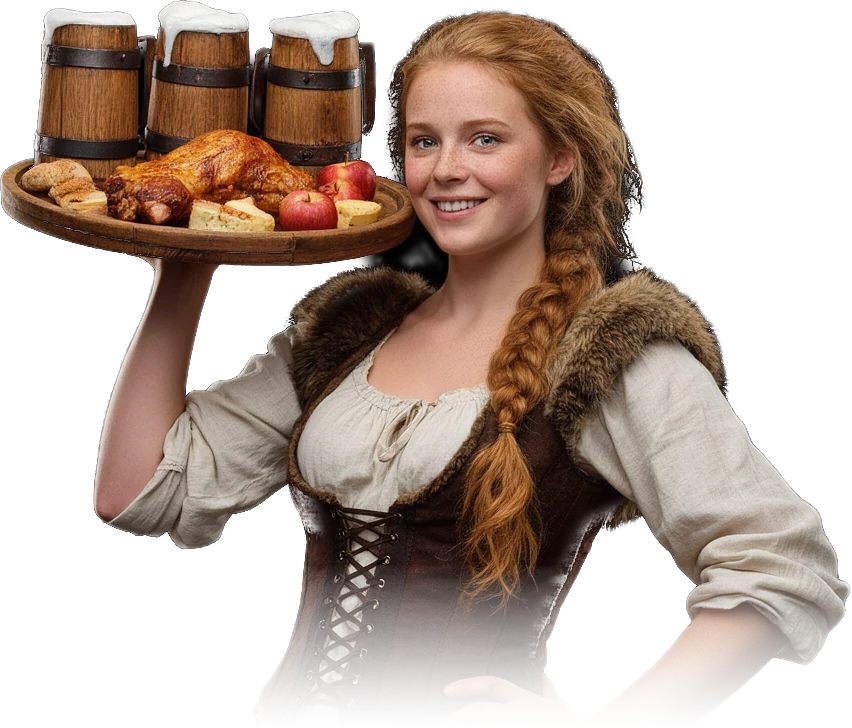
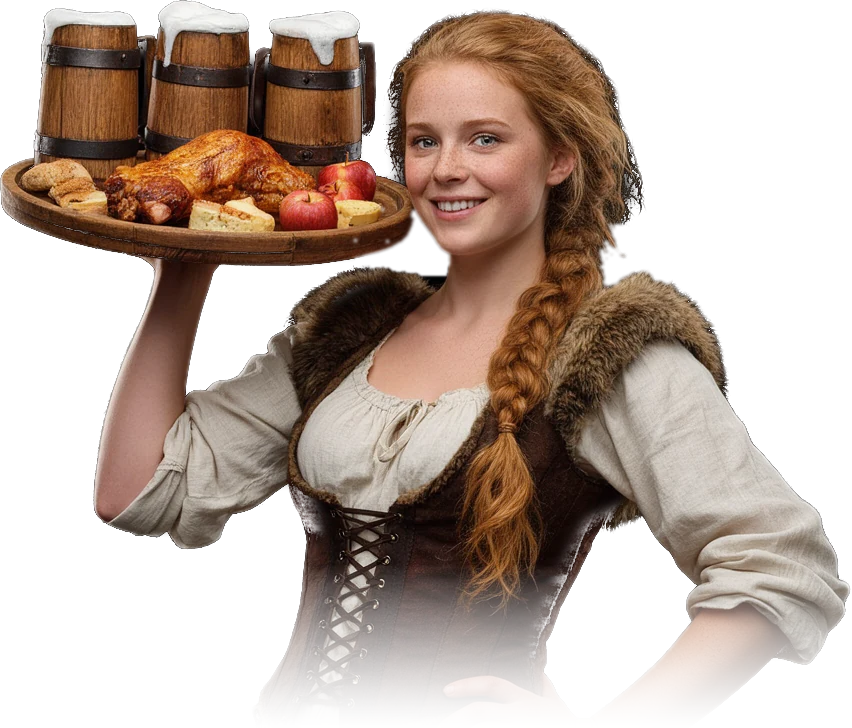
Serveuse réduite ; tache grise retirée derrière le cou

Changed region(s): [[0.3967, 0.272, 0.5493, 0.3929], [0.7019, 0.3022, 0.7934, 0.3929]]

diff --git a/assets/css/site.css b/assets/css/site.css
@@ -108,7 +108,7 @@ nav{white-space:nowrap}nav a.l{white-space:nowrap}
 .press .dragon{position:absolute;right:0;top:-80px;width:min(44vw,580px);aspect-ratio:1152/896;background:url(../img/dragon.webp) center/contain no-repeat;pointer-events:none;z-index:0}
 .press .dragon{z-index:2}
 .wench{position:relative;pointer-events:none;min-height:0;z-index:3}
-.wench .wimg{position:absolute;left:50%;top:-130px;bottom:-140px;aspect-ratio:852/728;max-width:100%;translate:-50% 0;background:url(../img/serveuse.webp) center bottom/contain no-repeat}
+.wench .wimg{position:absolute;left:50%;top:-40px;bottom:-90px;aspect-ratio:852/728;max-width:100%;translate:-50% 0;background:url(../img/serveuse.webp) center bottom/contain no-repeat}
 .wench .steam{mix-blend-mode:normal;translate:none;opacity:.95}
 .press .dragon .dfire{position:absolute;left:0;top:0;width:66.7%;height:auto;translate:none;mix-blend-mode:normal}
 @media(max-width:1000px){.press .dragon{display:none}}
